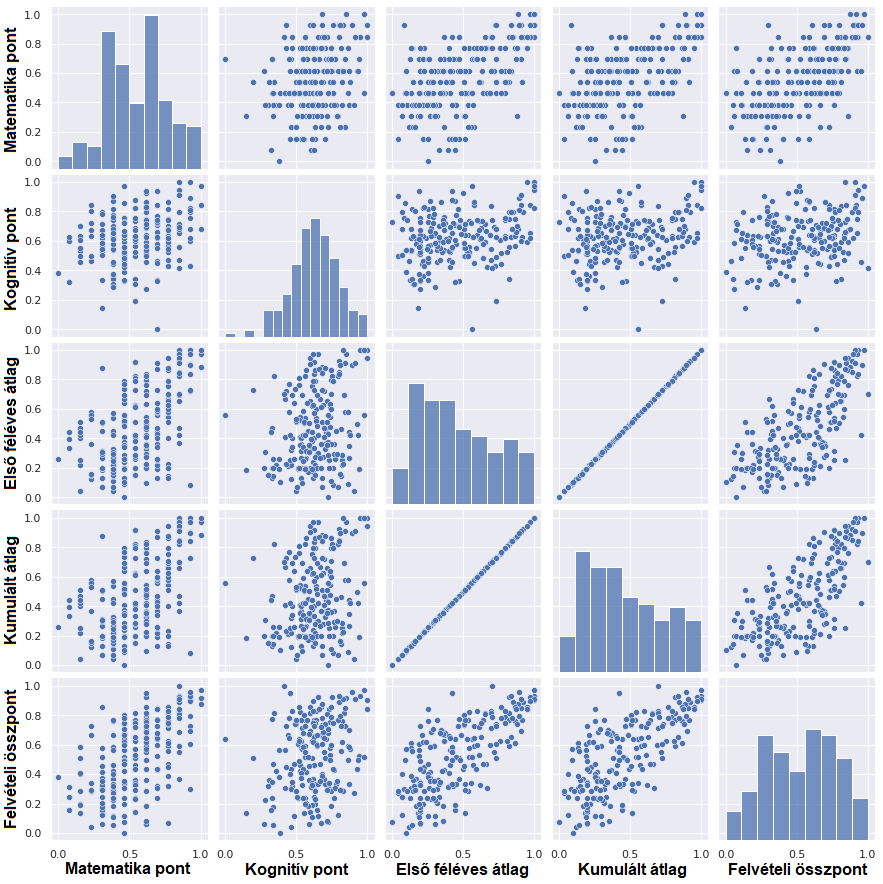
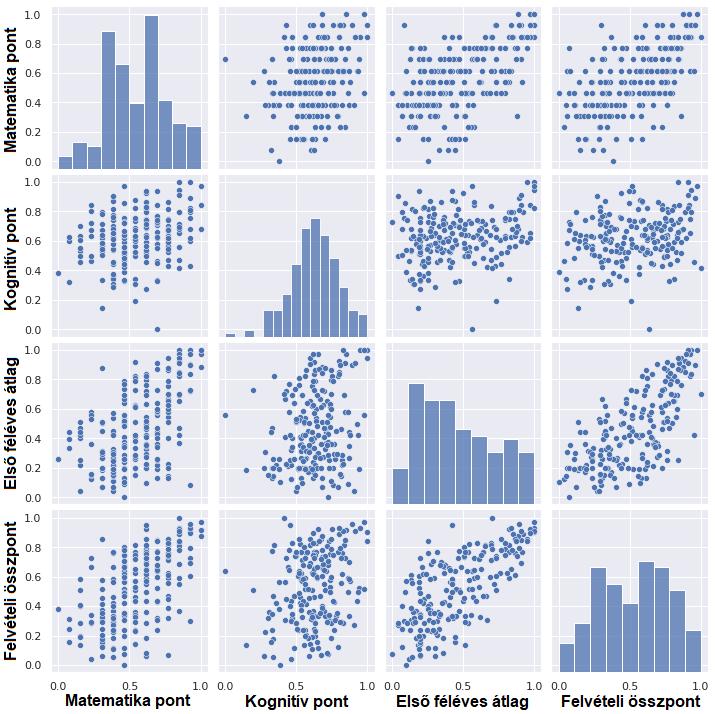
big kok

diff --git a/TDK dolgozat/TDK_doc.tex b/TDK dolgozat/TDK_doc.tex
@@ -206,14 +206,35 @@ A 2019-es ábrához képest az mondható, hogy nőtt a változók szórása, ugy
 \begin{figure}[H]
 \centering
 \includegraphics[width=\textwidth]{kepek/2019minmax3.png}
-\caption{2021. Szórásdiagramok}
-\label{fig:2021minmax}
+\caption{2019. Teszt és felvételi pontszám részei}
+\label{fig:2019minmax3}
 \end{figure}
 
-Ezen az ábrán látható a \textit{seaborn pairplot} függvény egyik eredménye. Ebben az esetben volt két hallgató, aki pont duplázással számította a teljes felvételi pontszámát, így a hozott pontszámánál 0 állt értékként. Ez természetesen torzítást okozott a megfelelő részábrákon, így ki lettek véve. A tengelyekről leolvasható, hogy minden változó $[0,1]$ intervallumban van, ugyanis min-max skálázva lettek.
+Ezen az ábrán látható a \textit{seaborn pairplot} függvény egyik eredménye. Ebben az esetben volt két hallgató, aki pont duplázással számította a teljes felvételi pontszámát, így a hozott pontszámánál 0 állt értékként. Ez természetesen torzítást okozott a megfelelő részábrákon, így ki lettek véve. A változók itt min-max skálázva vannak, így minden tengelyen 0-tól 1-ig vannak értékek.
+
+\begin{figure}[H]
+\centering
+\includegraphics[width=\textwidth]{kepek/2021minmax3.png}
+\caption{2021. Teszt és felvételi pontszám részei}
+\label{fig:2021minmax3}
+\end{figure}
+
+Egészen hasonló képet látunk, mint a 2019 esetében, de itt is érvényesül az erősebb szórás. Továbbá szembetűnő az érettségi pontszámok eloszlásának megváltozása. Míg 2019-ben a skálázott adatok nagy része 0.5-1 között van, 2021-ben már az egész intervallumra széthúzódnak.
+
+\begin{figure}[H]
+\centering
+\includegraphics[width=\textwidth]{kepek/2019minmax4.png}
+\caption{2019. Teszt részek, átlagok és felvételi összpontszám}
+\label{fig:2019minmax4}
+\end{figure}
 
 
- 
+\begin{figure}[H]
+\centering
+\includegraphics[width=\textwidth]{kepek/2021minmax.png}
+\caption{2021. Teszt részek, átlag és felvételi összpontszám}
+\label{fig:2021minmax}
+\end{figure}
 
 
 
